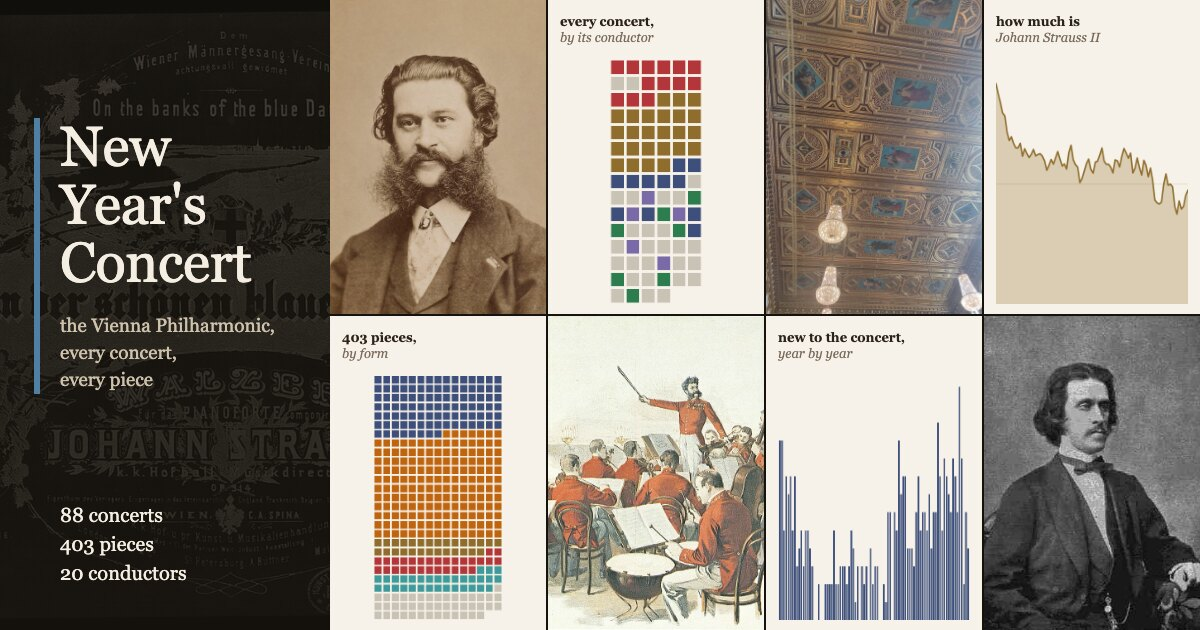
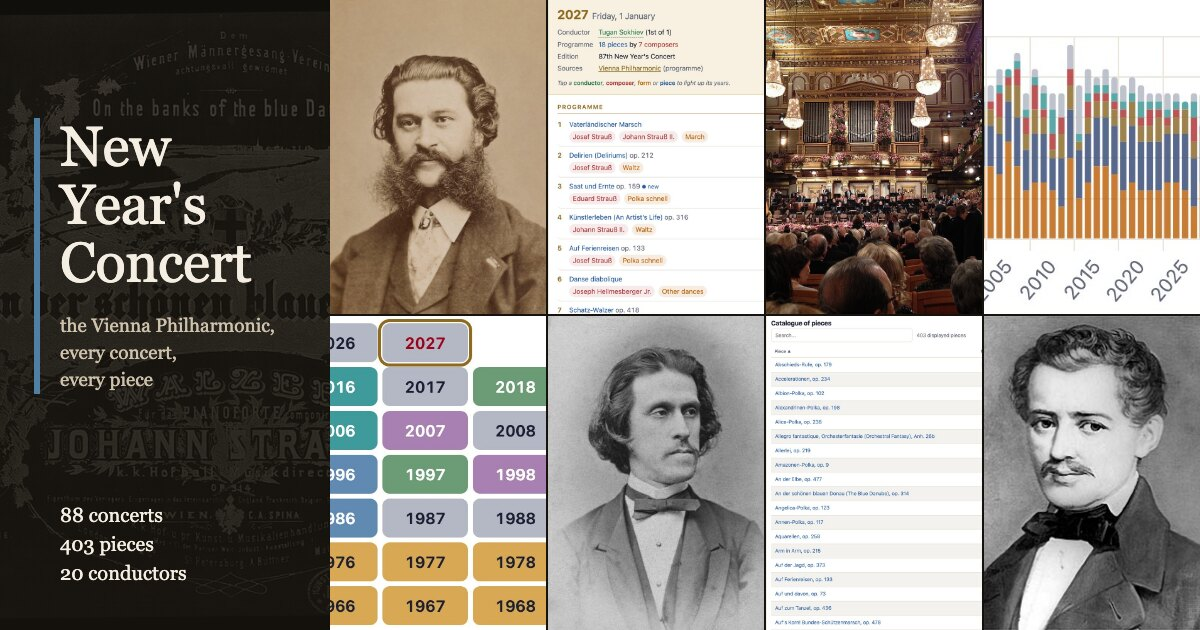
asd

diff --git a/projects/nyc.html b/projects/nyc.html
@@ -15,25 +15,25 @@
   <link rel="icon" href="/assets/favicons/main/favicon.ico" type="image/x-icon">
   <link rel="icon" type="image/png" sizes="32x32" href="/assets/favicons/main/favicon-32x32.png">
   <meta name="theme-color" content="#f4eee2">
-  <link rel="stylesheet" href="nyc/style.css?v=1.7.0">
-  <script src="nyc/catalogue.js?v=1.7.0"></script>
-  <script src="nyc/composers.js?v=1.7.0"></script>
-  <script src="nyc/conductors.js?v=1.7.0"></script>
-  <script src="nyc/concerts.js?v=1.7.0"></script>
-  <script src="nyc/performances.js?v=1.7.0"></script>
-  <script src="nyc/announced.js?v=1.7.0"></script>
-  <script src="nyc/concert_meta.js?v=1.7.0"></script>
-  <script src="nyc/portraits.js?v=1.7.0"></script>
-  <script src="nyc/recordings.js?v=1.7.0"></script>
-  <script src="nyc/links.js?v=1.7.0"></script>
+  <link rel="stylesheet" href="nyc/style.css?v=1.7.1">
+  <script src="nyc/catalogue.js?v=1.7.1"></script>
+  <script src="nyc/composers.js?v=1.7.1"></script>
+  <script src="nyc/conductors.js?v=1.7.1"></script>
+  <script src="nyc/concerts.js?v=1.7.1"></script>
+  <script src="nyc/performances.js?v=1.7.1"></script>
+  <script src="nyc/announced.js?v=1.7.1"></script>
+  <script src="nyc/concert_meta.js?v=1.7.1"></script>
+  <script src="nyc/portraits.js?v=1.7.1"></script>
+  <script src="nyc/recordings.js?v=1.7.1"></script>
+  <script src="nyc/links.js?v=1.7.1"></script>
   <!-- the "Analysis and context" tab, as on the published page: Chart.js (pinned) + its own helpers -->
   <script src="https://cdn.jsdelivr.net/npm/chart.js@4.4.1/dist/chart.umd.min.js"></script>
-  <script src="nyc/chart_theme.js?v=1.7.0"></script>
-  <script src="nyc/legacy_charts.js?v=1.7.0"></script>
+  <script src="nyc/chart_theme.js?v=1.7.1"></script>
+  <script src="nyc/legacy_charts.js?v=1.7.1"></script>
   <script>
     var total_pieces_all_concerts = concerts.reduce((s, c) => s + c.program.piece_id.length, 0);
   </script>
-  <script src="nyc/app.js?v=1.7.0" defer></script>
+  <script src="nyc/app.js?v=1.7.1" defer></script>
 </head>
 <body>
   <nav id="navbar">
@@ -89,7 +89,7 @@
 
         <div class="col-md-12 catalogue-panel">
           <h5 class="view-title">Analysis and context of the New Year’s Concert</h5>
-          <p class="forerunner-note">87 concerts in the data: the 86 numbered New Year’s Concerts (1941 to 2026) and their forerunner of 31 December 1939. All charts include the 1939 concert.</p>
+          <p class="forerunner-note" id="analysis-count">88 concerts in the data: the 87 numbered New Year’s Concerts (1941 to 2027) and their forerunner of 31 December 1939. All charts include the 1939 concert.</p>
 
           <!-- minimal UI now: selectors later -->
           <div class="row g-2 align-items-center mb-2">

diff --git a/projects/nyc/app.js b/projects/nyc/app.js
@@ -3,8 +3,8 @@
 // nyc/performances.js (notes about a piece in a given concert; prototype only).
 "use strict";
 
-const DATA_V = "1.7.0";
-const BUILD_AT = "2026-11-01 17:53";
+const DATA_V = "1.7.1";
+const BUILD_AT = "2026-11-01 18:12";
 
 // --- indexes ---------------------------------------------------------------------------------
 const CONCERTS = [...concerts].sort((a, b) => a.year - b.year);
@@ -1101,6 +1101,13 @@ if (by0 && METRICS[by0] && METRICS[by0].kind !== "none") colourBy = by0;
 drawColourBy();
 placeKey();
 drawYears();
+// the count above the charts, from the data (it was written by hand and went stale when 2027 arrived)
+(() => {
+  const numbered = CONCERTS.filter(c => c.year !== FORERUNNER), last = CONCERTS[N - 1].year;
+  $("analysis-count").textContent = `${N} concerts in the data: the ${numbered.length} numbered New Year’s Concerts ` +
+    `(${numbered[0].year} to ${last}) and their forerunner of 31 December ${FORERUNNER}. All charts include the ${FORERUNNER} concert` +
+    (upcoming(last) ? `, and the ${last} programme, published but not yet played.` : ".");
+})();
 wireYears();
 setupDivider();
 setupSheet();

diff --git a/projects/nyc_old/functions.js b/projects/nyc_old/functions.js
@@ -6,7 +6,7 @@ function editionText(year, verb) {
   if (year === 1939) return "The concert of 31 December 1939 came before the numbered series: the Vienna Philharmonic counts 1 January 1941 as its 1st New Year's Concert. ";
   return "The New Year's Concert " + year + " " + verb + " the " + getOrdinal(year - 1940) + " edition of the event. ";
 }
-const BUILD_AT = "2026-11-01 17:53";
+const BUILD_AT = "2026-11-01 18:12";
 document.addEventListener("DOMContentLoaded", () => {
   const b = document.getElementById("build");
   if (b) b.textContent = `v${DATA_V} · ${BUILD_AT}`;
